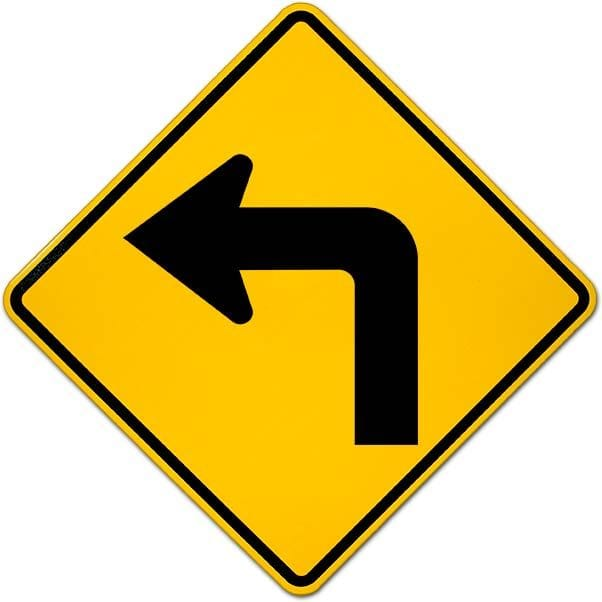
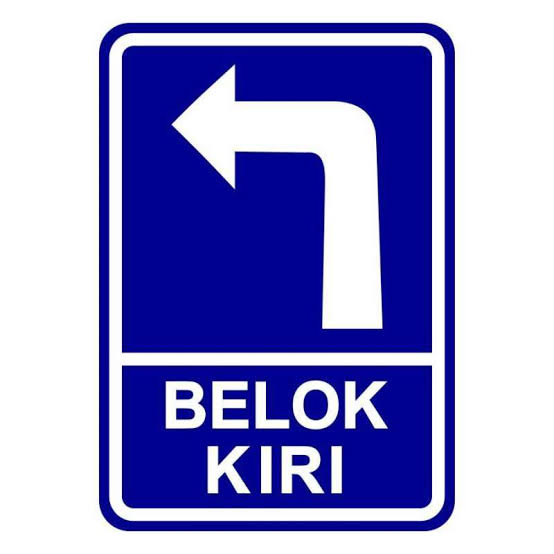
s

diff --git a/kenali-rambu.html b/kenali-rambu.html
@@ -961,10 +961,10 @@
       </div>
 
       <div class="rambu-card" data-type="perintah" onclick="openModal(10)">
-        <div class="rambu-svg"><svg width="60" height="60" viewBox="0 0 60 60" fill="none">
-            <circle cx="30" cy="30" r="27" fill="#2A5298" />
-            <polygon points="46,30 34,22 34,26 16,26 16,34 34,34 34,38" fill="white" />
-          </svg></div>
+      <div class="rambu-svg">
+          <img src="images/belokkanan.jpg" alt="belokkanan 30"
+              style="width: 60px;height:80px;object-fit:contain;">
+      </div>
         <div class="rambu-name">Wajib Belok Kanan</div>
         <span class="rambu-type type-perintah">Perintah</span>
       </div>
@@ -1029,6 +1029,24 @@
             style="width:60px;height:80px;object-fit:contain;">
     </div>
     <div class="rambu-name">Lampu Hijau Menyala</div>
+    <span class="rambu-type type-informasi">Informasi</span>
+</div>
+
+<div class="rambu-card" data-type="informasi" onclick="openModal(18)">
+    <div class="rambu-svg">
+        <img src="images/lampu-merah.png" alt="Lampu Merah Menyala"
+            style="width:60px;height:80px;object-fit:contain;">
+    </div>
+    <div class="rambu-name">Lampu Merah Menyala</div>
+    <span class="rambu-type type-informasi">Informasi</span>
+</div>
+
+<div class="rambu-card" data-type="informasi" onclick="openModal(19)">
+    <div class="rambu-svg">
+        <img src="images/lampu-kuning.png" alt="Lampu Kuning Menyala"
+            style="width:60px;height:80px;object-fit:contain;">
+    </div>
+    <div class="rambu-name">Lampu Kuning Menyala</div>
     <span class="rambu-type type-informasi">Informasi</span>
 </div>
 </div>
@@ -1216,6 +1234,20 @@
   fact: "<strong>Fakta:</strong> Lampu hijau menyala pengemudi dapat tetap melintas, namun harus memastikan persimpangan aman dan mendahulukan pejalan kaki yang masih menyeberang.",
   svg: '<img src="images/lampuhijau.png" width="120">'
   },
+  {
+  name: "Lampu Merah Menyala",
+  type: "informasi",
+  desc: "Lampu lalu lintas berwarna merah menandakan semua kendaraan wajib berhenti sebelum garis henti atau zebra cross.",
+  fact: "<strong>Fakta:</strong> Menerobos lampu merah merupakan pelanggaran lalu lintas yang berisiko tinggi menyebabkan kecelakaan di persimpangan.",
+  svg: '<img src="images/lampu-merah.png" width="120">'
+},
+{
+  name: "Lampu Kuning Menyala",
+  type: "informasi",
+  desc: "Lampu lalu lintas berwarna kuning menandakan kendaraan harus bersiap berhenti karena lampu akan berubah menjadi merah atau berhati-hati sebelum melanjutkan perjalanan.",
+  fact: "<strong>Fakta:</strong> Lampu kuning bukan berarti pengemudi boleh menambah kecepatan. Pengemudi harus mengurangi kecepatan dan berhenti jika masih memungkinkan dilakukan dengan aman.",
+  svg: '<img src="images/lampu-kuning.png" width="120">'
+}
 
 
     ];